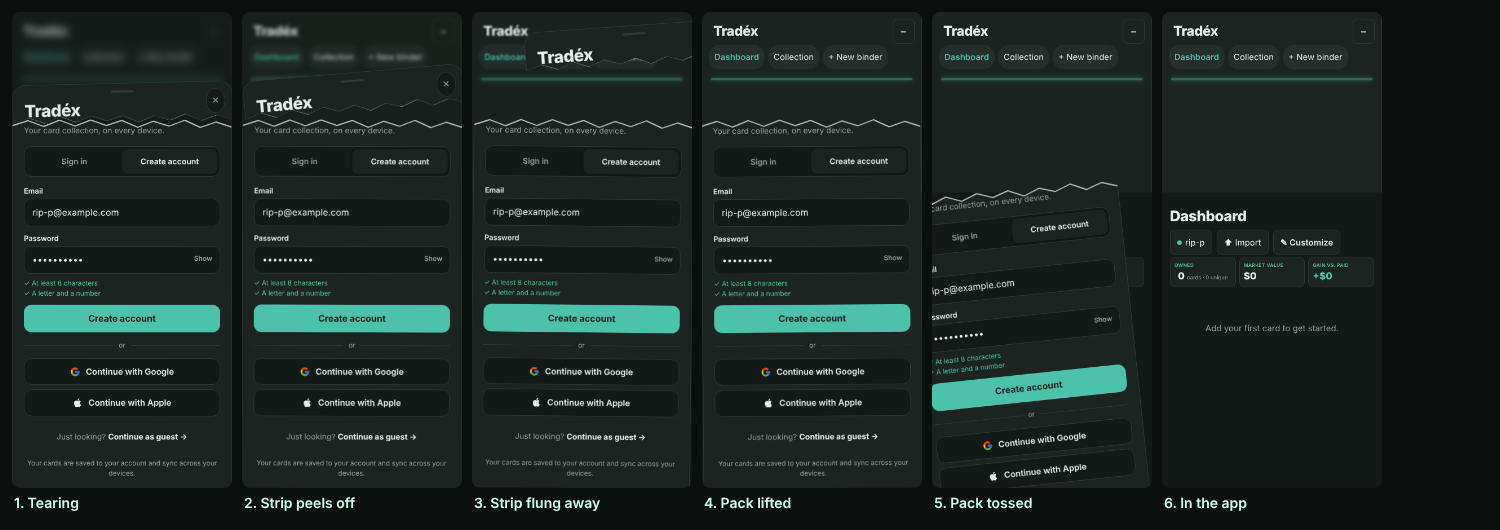
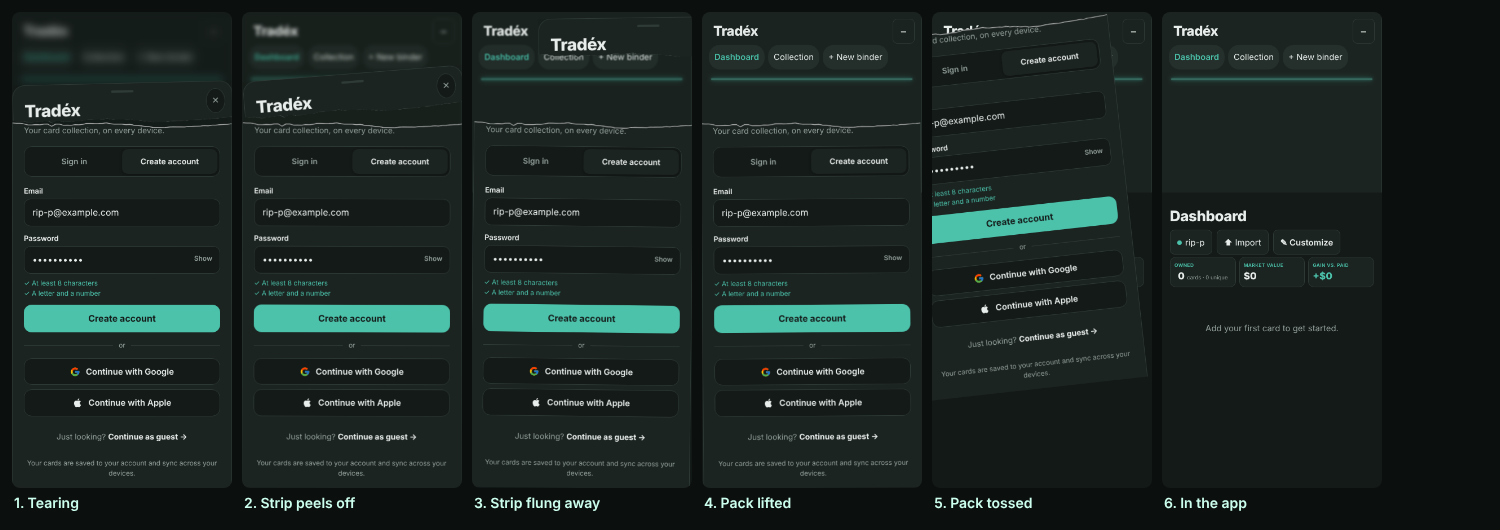
Toss the opened card off the top left and give the rip a ragged, uneven edge
Claude-Session: https://claude.ai/code/session_01K6ofJxh6QarDQ2gKnJ83gJ

diff --git a/js/account.js b/js/account.js
@@ -240,22 +240,24 @@ function lift(rip){const g=$('#txa');if(!g||g.classList.contains('clear'))return
  const bx=g.querySelector('.bx'),still=matchMedia('(prefers-reduced-motion:reduce)').matches;
  if(!rip||still||!bx||!bx.animate){g.classList.add('clear');setTimeout(()=>{if(g.classList.contains('clear'))g.remove()},still?0:750);return}
  g.classList.add('clear','rip');
- const r=bx.getBoundingClientRect(),cut=Math.min(64,r.height*.12),n=14,pts=[];
- for(let i=0;i<=n;i++)pts.push([i/n*100,cut+(i%2?-1:1)*(3+Math.random()*4)]);
+ const r=bx.getBoundingClientRect(),cut=Math.min(64,r.height*.12),n=Math.round(r.width/7),pts=[],R=Math.random;
+ // a real tear wanders: a slow drift across the card, small fibre-sized wiggles, and the odd sharper snag
+ let y=cut+(R()-.5)*6,dy=(R()-.5)*1.2;for(let i=0;i<=n;i++){dy=Math.max(-1.6,Math.min(1.6,dy*.8+(R()-.5)*1.1));y=Math.max(cut-9,Math.min(cut+9,y+dy));
+  pts.push([i/n*100,+(y+(R()-.5)*1.6+(R()<.08?(R()-.4)*7:0)).toFixed(1)])}
  const edge=pts.map(([x,y])=>`${x}% ${y}px`),top=`polygon(0 0,100% 0,${edge.slice().reverse().join(',')})`,body=`polygon(${edge.join(',')},100% 100%,0 100%)`;
  const strip=bx.cloneNode(true);strip.removeAttribute('id');strip.querySelectorAll('[id]').forEach(e=>e.removeAttribute('id'));strip.setAttribute('aria-hidden','true');
  Object.assign(strip.style,{position:'fixed',left:r.left+'px',top:r.top+'px',width:r.width+'px',height:r.height+'px',margin:0,maxHeight:'none',animation:'none',clipPath:top,transformOrigin:'0 '+cut+'px',zIndex:1});
  const fray=()=>{const v=document.createElementNS('http://www.w3.org/2000/svg','svg');v.setAttribute('viewBox',`0 0 100 ${cut+12}`);v.setAttribute('preserveAspectRatio','none');
   v.style.cssText=`position:absolute;left:0;top:0;width:100%;height:${cut+12}px;pointer-events:none;overflow:visible`;
-  v.innerHTML=`<polyline points="${pts.map(([x,y])=>x+','+y).join(' ')}" fill="none" stroke="rgba(255,255,255,.7)" stroke-width="2.5" vector-effect="non-scaling-stroke" stroke-linejoin="bevel"/>`;return v};
+  v.innerHTML=`<polyline points="${pts.map(([x,y])=>x+','+y).join(' ')}" fill="none" stroke="rgba(255,255,255,.6)" stroke-width="1.6" vector-effect="non-scaling-stroke" stroke-linejoin="bevel"/>`;return v};
  g.appendChild(strip);strip.appendChild(fray());bx.appendChild(fray());strip.scrollTop=bx.scrollTop;bx.style.clipPath=body;bx.style.animation='none';
  const E='cubic-bezier(.5,0,.75,0)';
  // 1) the strip peels up from the left like a foil tear, 2) it is flung away to the top right
  strip.animate([{transform:'none'},{transform:'translate(6px,-10px) rotate(-5deg)',offset:.35},{transform:'translate(40px,-34px) rotate(-12deg)',offset:.55},
   {transform:`translate(${innerWidth}px,${-innerHeight*.5}px) rotate(38deg)`}],{duration:800,easing:'ease-in',fill:'forwards'});
- // 3) the opened pack wobbles from the tear, lifts, and is tossed off the bottom left
+ // 3) the opened pack wobbles from the tear, lifts, and is tossed off the top left
  bx.animate([{transform:'none'},{transform:'rotate(.8deg)',offset:.1},{transform:'rotate(-.6deg)',offset:.2},{transform:'none',offset:.3},
-  {transform:'translateY(-22px) rotate(-2deg)',offset:.48},{transform:`translate(${-innerWidth*.45}px,${innerHeight}px) rotate(-26deg)`}],{duration:1150,easing:E,fill:'forwards'});
+  {transform:'translateY(-22px) rotate(-2deg)',offset:.48},{transform:`translate(${-innerWidth*.7}px,${-innerHeight*1.1}px) rotate(-28deg)`}],{duration:1150,easing:E,fill:'forwards'});
  setTimeout(()=>{if(g.classList.contains('clear'))g.remove()},1200)}
 function guest(rip){LS('tradex_guest','1');lift(rip);H.classList.remove('pend');guestBtn()}
 function guestBtn(){let b=$('#txme');if(!b){b=document.createElement('button');b.id='txme';const imp=$('#impb');imp.parentElement.insertBefore(b,imp)}
